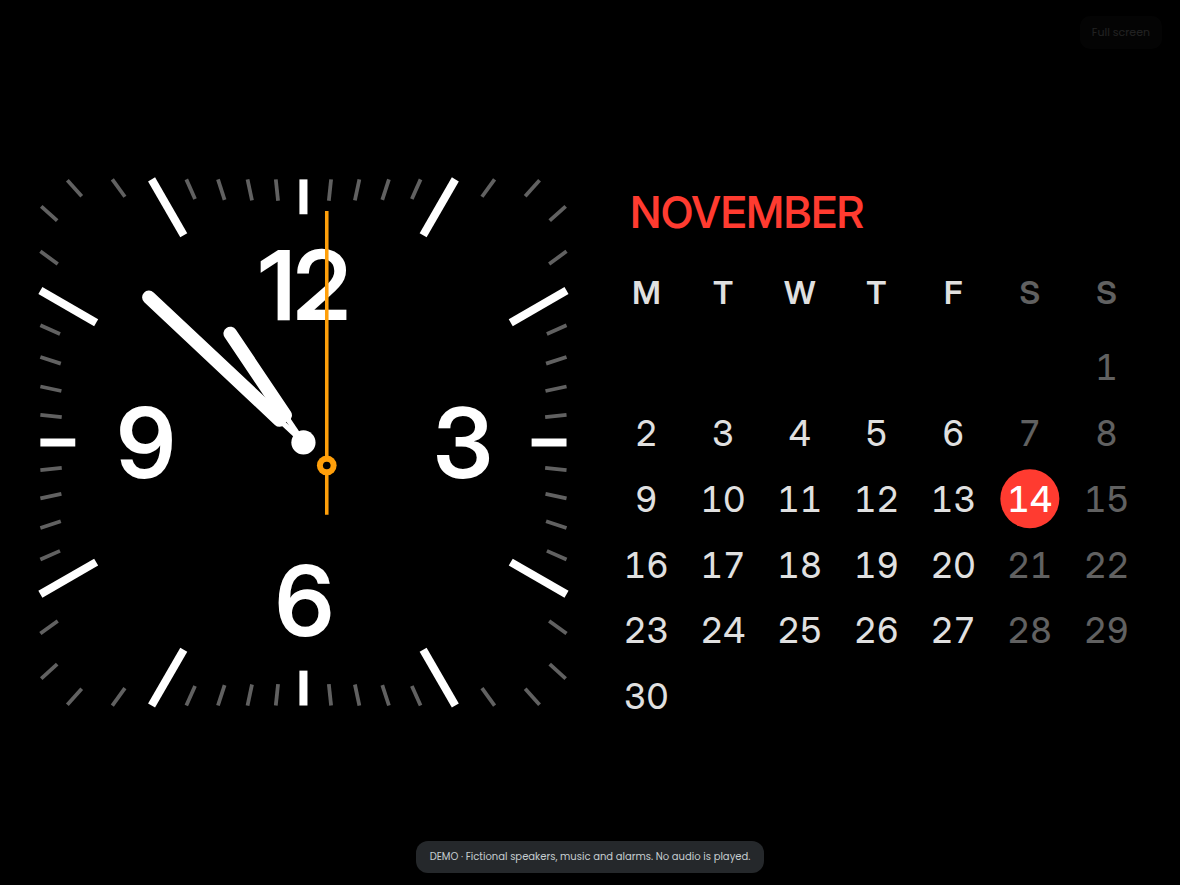
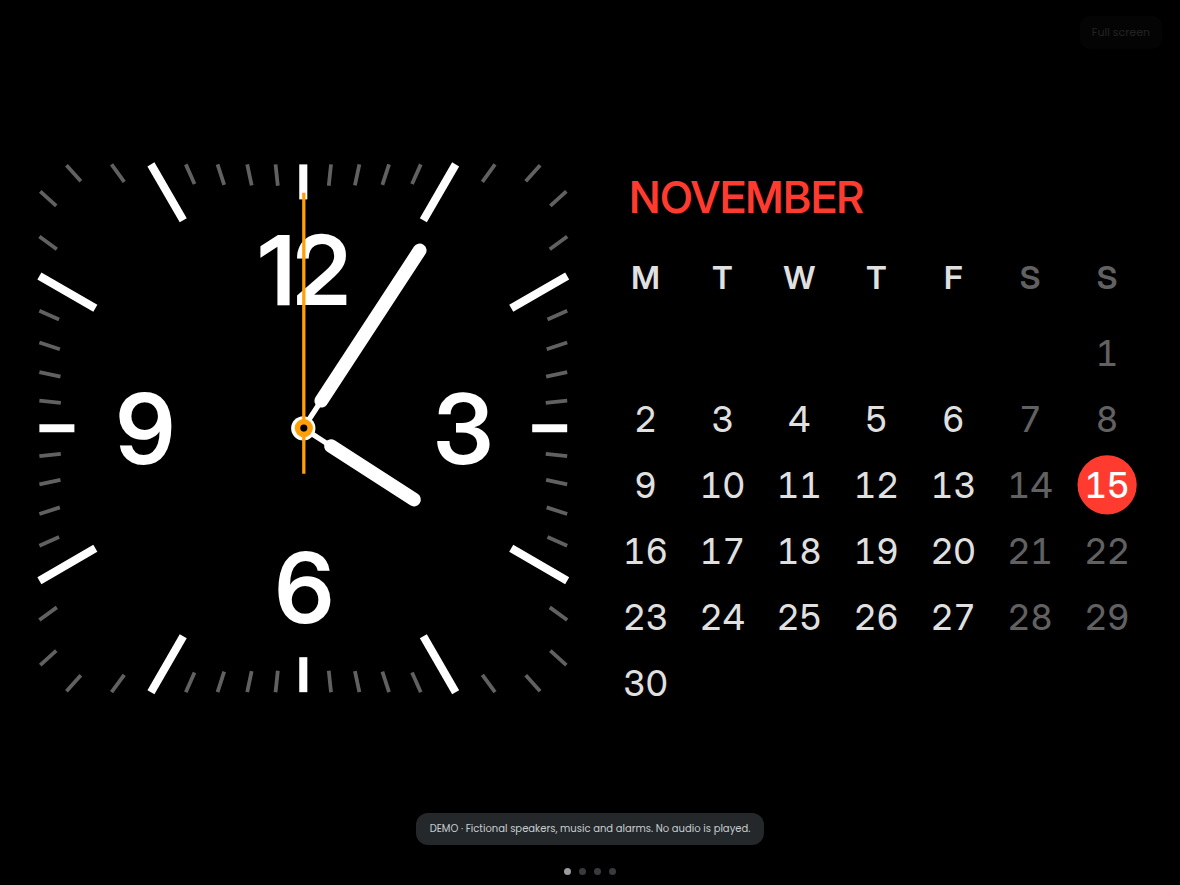
Add bottom page-position dots (0.12.0)
Show four persistent dots with a grey active-page marker, accessible page/count announcements and reserved footer space. Keep the indicator synchronized with links, swipes and keyboard navigation; refresh the illustrated docs.

diff --git a/clock-radio/app/web/styles.css b/clock-radio/app/web/styles.css
@@ -1,4 +1,5 @@
 * { box-sizing: border-box; }
+:root { --page-indicator-height: calc(28px + env(safe-area-inset-bottom, 0px)); }
 html, body { margin: 0; height: 100%; overflow: hidden; background: var(--bg); color: var(--text); font-family: var(--font); overscroll-behavior: none; }
 button { font: inherit; color: inherit; border: 0; padding: 0; background: none; cursor: pointer; }
 a { color: inherit; text-decoration: none; }
@@ -10,18 +11,22 @@ button:focus-visible, a:focus-visible, input:focus-visible, select:focus-visible
 .app { display: flex; height: 100vh; height: 100dvh; width: 100%; }
 .sr-only { position: absolute; width: 1px; height: 1px; overflow: hidden; clip-path: inset(50%); white-space: nowrap; }
 .online { color: var(--accent); }
-.stage { position: relative; flex: 1; min-width: 0; min-height: 0; overflow: hidden; }
+.stage { position: relative; flex: 1; min-width: 0; min-height: 0; overflow: hidden; padding-bottom: var(--page-indicator-height); }
 .page { width: 100%; height: 100%; }
+.page-indicator { position: absolute; z-index: 1; bottom: 0; left: 0; right: 0; display: flex; align-items: center; justify-content: center; gap: 8px; height: var(--page-indicator-height); padding-bottom: env(safe-area-inset-bottom, 0px); background: #000; pointer-events: none; }
+.page-indicator__dot { width: 7px; height: 7px; border-radius: 50%; background: #3a3a3e; }
+.page-indicator__dot.is-active { background: #9b9ba0; }
+.is-night .page-indicator__dot { opacity: .4; }
 .clock-page { background: #000; }
 #clock-frame { display: block; border: 0; width: 100%; height: 100%; }
 .clock-focus { position: absolute; right: 18px; top: 16px; padding: 8px 12px; border-radius: 10px; background: #161616; color: #a6a6a6; opacity: .2; font-size: 11px; }
 .clock-focus:hover, .clock-focus:focus-visible { opacity: 1; }
 .is-night .clock-focus { color: #8b4038; background: #190908; }
 .initial-loading { position: absolute; top: 45%; width: 100%; text-align: center; color: var(--muted); }
-.banners { position: fixed; z-index: 55; bottom: 12px; left: 12px; right: 12px; display: grid; justify-items: center; gap: 5px; pointer-events: none; }
+.banners { position: fixed; z-index: 55; bottom: calc(var(--page-indicator-height) + 12px); left: 12px; right: 12px; display: grid; justify-items: center; gap: 5px; pointer-events: none; }
 .banner { margin: 0; padding: 8px 14px; border-radius: 12px; background: #3b1d1d; color: #fecaca; font-size: 12px; max-width: 100%; overflow-wrap: anywhere; text-align: center; }
 .banner--info { background: #25282b; color: #c6cdd0; font-size: 10px; }
-.toasts { position: fixed; bottom: 85px; left: 50%; transform: translateX(-50%); z-index: 60; display: grid; gap: 8px; max-width: 90vw; }
+.toasts { position: fixed; bottom: calc(var(--page-indicator-height) + 85px); left: 50%; transform: translateX(-50%); z-index: 60; display: grid; gap: 8px; max-width: 90vw; }
 .toast { padding: 10px 18px; border-radius: 12px; background: #2b2b2e; font-size: 14px; box-shadow: 0 6px 24px #0009; }
 .notice { margin: auto; max-width: min(640px, 90%); padding: 24px; text-align: center; }
 .notice > .icon { font-size: 56px; color: #f59e0b; }
@@ -250,7 +255,7 @@ button:focus-visible, a:focus-visible, input:focus-visible, select:focus-visible
   .alarm-switch > span, .alarm-switch > span::after { transition: none; }
 }
 @media (max-width: 700px) {
-  .banners { left: 8px; right: 8px; bottom: 8px; }
+  .banners { left: 8px; right: 8px; bottom: calc(var(--page-indicator-height) + 8px); }
   .settings { padding: 20px 14px 180px; }
   .settings-card { padding: 18px; }
   .clock-focus { top: 10px; right: 10px; }

diff --git a/clock-radio/app/web/app.js b/clock-radio/app/web/app.js
@@ -13,6 +13,14 @@ new ResizeObserver(([entry]) => {
   document.documentElement.style.setProperty("--banner-height", `${entry.contentRect.height}px`);
 }).observe(document.querySelector(".banners"));
 const PAGES = { clock: "The Clock", music: "Music overview", alarms: "Alarm configuration", settings: "Settings" };
+const pageIds = Object.keys(PAGES);
+const pageDots = pageIds.map(() => {
+  const dot = document.createElement("span");
+  dot.className = "page-indicator__dot";
+  dot.setAttribute("aria-hidden", "true");
+  return dot;
+});
+$("page-indicator").append(...pageDots);
 let model = null;
 let current = "clock";
 let musicPage = null;
@@ -73,10 +81,15 @@ function navigate() {
   }
   current = Object.hasOwn(PAGES, location.hash.slice(1)) ? location.hash.slice(1) : "clock";
   if (current !== "alarms") settingsPages?.closeAlarmEditor();
-  for (const page of Object.keys(PAGES)) $(`page-${page}`).hidden = page !== current;
+  for (const [index, page] of pageIds.entries()) {
+    $(`page-${page}`).hidden = page !== current;
+    pageDots[index].classList.toggle("is-active", page === current);
+  }
   $(`page-${current}`).tabIndex = -1;
   $(`page-${current}`).focus({ preventScroll: true });
-  $("page-position").textContent = `${PAGES[current]}. Swipe up/down or use Page Up/Down to change pages.`;
+  const position = `Page ${pageIds.indexOf(current) + 1} of ${pageIds.length}: ${PAGES[current]}`;
+  $("page-indicator").setAttribute("aria-label", position);
+  $("page-position").textContent = `${position}. Swipe up/down or use Page Up/Down to change pages.`;
   document.body.classList.toggle("on-clock", current === "clock");
   if (current !== "clock") document.body.classList.remove("is-night");
   frame.contentWindow?.postMessage({ type: "clock-radio-visibility", visible: current === "clock" }, location.origin);
@@ -85,8 +98,7 @@ function navigate() {
 
 function changePage(step) {
   if (document.querySelector('[role="dialog"][aria-modal="true"]')) return;
-  const pages = Object.keys(PAGES);
-  location.hash = pages[(pages.indexOf(current) + step + pages.length) % pages.length];
+  location.hash = pageIds[(pageIds.indexOf(current) + step + pageIds.length) % pageIds.length];
 }
 
 function changeClockView(panel, step) {
@@ -223,7 +235,7 @@ addEventListener("message", (event) => {
   if (event.data.type === "clock-radio-page") changePage(event.data.step);
   if (event.data.type === "clock-radio-view") changeClockView(event.data.panel, event.data.step);
 });
-for (const page of Object.keys(PAGES).filter((page) => page !== "clock")) {
+for (const page of pageIds.filter((page) => page !== "clock")) {
   onSwipe($(`page-${page}`), { vertical: changePage });
 }
 addEventListener("hashchange", navigate);

diff --git a/clock-radio/app/web/index.html b/clock-radio/app/web/index.html
@@ -24,6 +24,7 @@
         <section id="page-alarms" class="page settings-page" aria-label="Alarm configuration" hidden></section>
         <section id="page-settings" class="page settings-page" aria-label="Settings" hidden></section>
         <p id="initial-loading" class="initial-loading">Connecting to Home Assistant...</p>
+        <div id="page-indicator" class="page-indicator" role="img" aria-label="Page position"></div>
       </main>
     </div>
     <div class="banners" aria-live="polite">

diff --git a/clock-radio/app/test/server.test.js b/clock-radio/app/test/server.test.js
@@ -53,6 +53,7 @@ test("HTTP foundation works end to end with HA, hot reload, error paths and ingr
   const html = await home.text();
   assert.match(html, /href="\.\/styles.css"/);
   assert.match(html, /src="\.\/app.js"/);
+  assert.match(html, /id="page-indicator"[^>]+role="img"[^>]+aria-label="Page position"/);
   const js = await (await fetch(`${url}/app.js`)).text();
   assert.match(js, /getJson\("api\/state"/);
   const api = await (await fetch(`${url}/js/core/api.js`)).text();

diff --git a/clock-radio/DOCS.md b/clock-radio/DOCS.md
@@ -7,6 +7,10 @@ There is no menu. Swipe **up/down** between **The Clock**, **Music overview**,
 form inputs. Scroll to the top/bottom first in Music, Alarm configuration and
 Settings: ordinary scrolling never changes pages mid-scroll. Open player dialogs
 and sliders do not trigger page swipes.
+Four dots at the bottom of every main page show your position, left to right:
+Clock, Music, Alarm configuration, Settings. The active page has a grey dot;
+the other dots are darker. They are position indicators, not buttons. Screen
+readers announce the page name and position, such as "Page 4 of 4: Settings".
 Swipe left/right within the split clock's left panel to cycle square analog,
 round analog and digital faces; the right panel cycles calendar, weather, date
 and date/calendar. These selections save to YAML. Full-screen faces and hiding

diff --git a/clock-radio/CHANGELOG.md b/clock-radio/CHANGELOG.md
@@ -1,5 +1,15 @@
 # Changelog
 
+## 0.12.0
+
+- Add four persistent bottom dots to the main Clock, Music, Alarm configuration
+  and Settings pages. The active dot is grey and the others are darker; the dots
+  are non-interactive position indicators.
+- Announce the page name and position to screen readers. Reserve footer space
+  so the dots stay clear of playback controls, Save actions and status banners,
+  and dim the indicator with the clock's night mode.
+- Refresh the main-page and Sun night-mode documentation screenshots.
+
 ## 0.11.0
 
 - Redesign Settings with an iOS-inspired black appearance: rounded grouped

diff --git a/README.md b/README.md
@@ -35,6 +35,7 @@ page with no build step, HACS cards, or tablet-side Home Assistant token.
 
 There is no menu. Swipe **up/down** between pages; scroll to the edge first in
 Music/Alarm configuration/Settings. Keyboard users can use **Page Up/Down**.
+Four dots at the bottom show which page you are on; the active dot is grey.
 On the split clock,
 swipe **left/right** within each panel to save its clock face or widget.
 Full-screen faces and hiding the widget remain Settings options.
